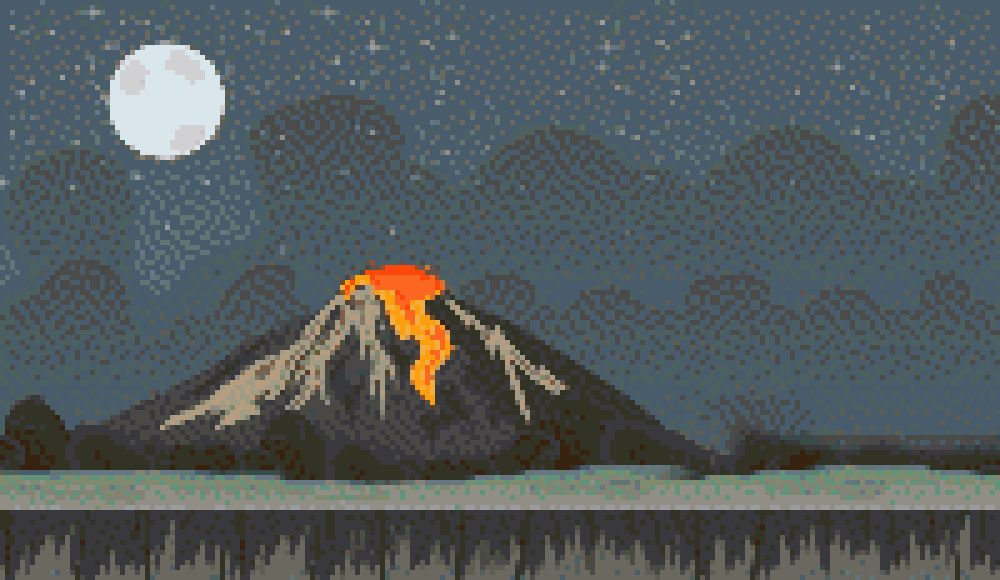
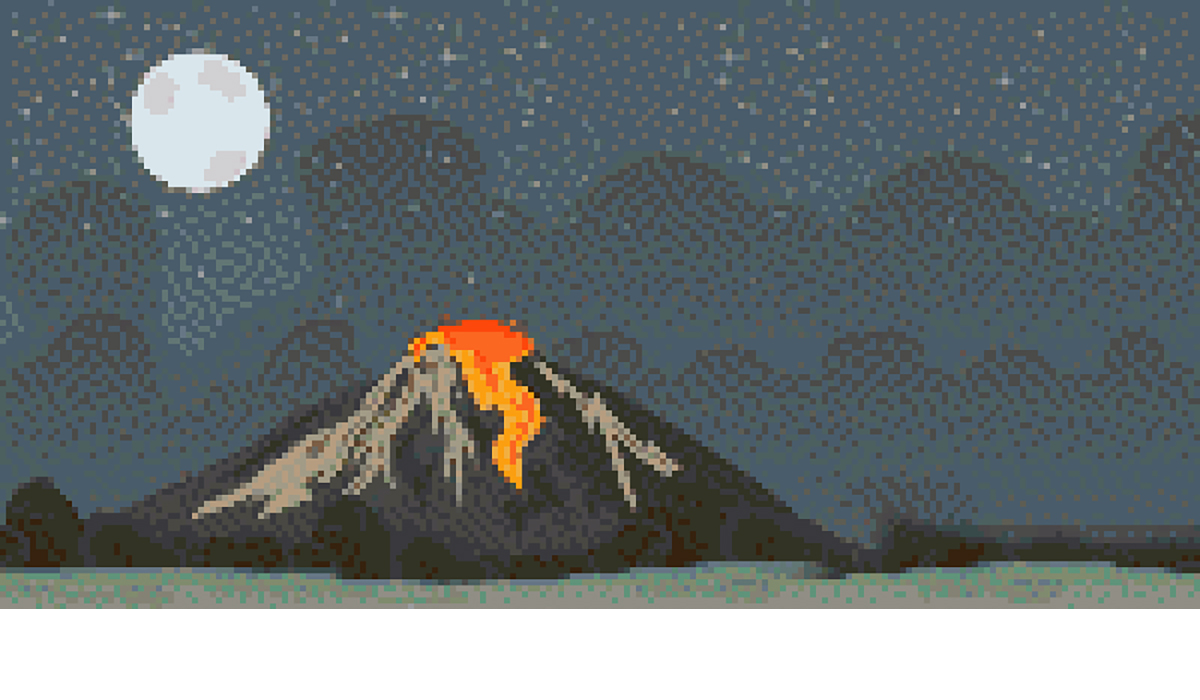
update

Changed region(s): [[0.0, 0.869, 1.0, 1.0]]

diff --git a/dino.js b/dino.js
@@ -2,7 +2,7 @@
 let dino = new Image()
 let map = new Image()
 let rock = new Image()
-map.src = 'image/map.jpg'
+map.src = 'image/map.png'
 dino.src = 'image/dino_fix.png'
 rock.src = 'image/rock.png'
 //เริ่มเกมส์ จะเรียกฟังก์ชัน start()
@@ -34,7 +34,7 @@ let sound = (id)=>{
 let drawFram = (framX, framY, canvasX) => {
     ctx.drawImage(map, 0, 0)
     ctx.drawImage(dino, framX * width, framY * height, width, height, canvasX, canvasY, scaleWidth, scaleHeigth)
-    ctx.drawImage(rock, trap, 500,100,100)
+    ctx.drawImage(rock, trap, 520,100,100)
 }
 let jump = (event) => {
     let state = (event.type == 'keydown')?true:false

diff --git a/dino.css b/dino.css
@@ -19,14 +19,19 @@ canvas{
     bottom: 0;
     margin: auto;
     border-radius: 5px;
+	background: url(image/mapground.png);
+	animation: animatedBackground 5.3s linear infinite;
 }
 h1,h2,h3{
     text-align:center;
     text-transform:uppercase;
-
 }
 #top, #bottom{
     margin: 0;
     padding: 0;
     color: #EC7063;
+}
+@keyframes animatedBackground {
+    0% { background-position: 0 0; }
+    100% { background-position: -1200px 0; }
 }
